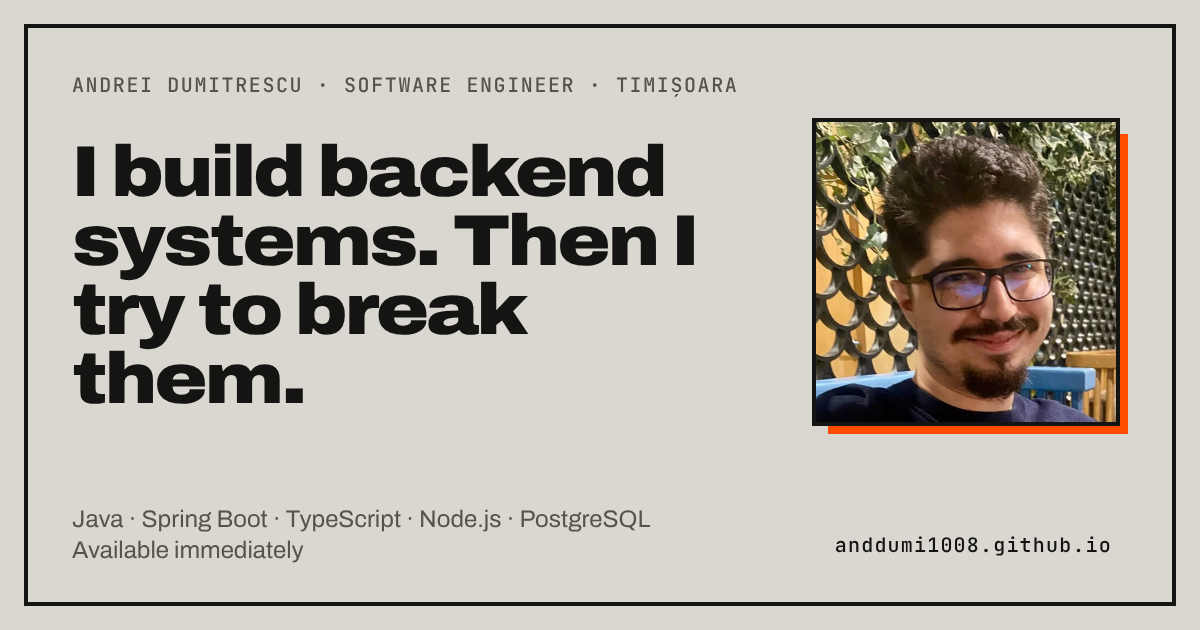
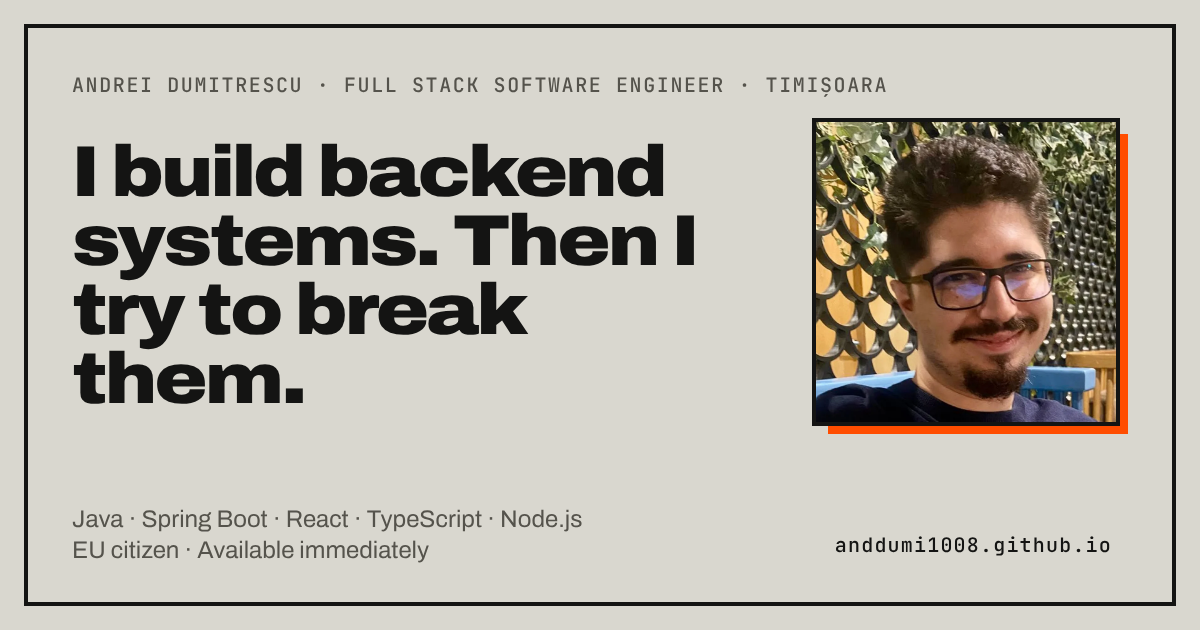
Update CV to v2 and align positioning: full stack, Java-first
- Replace the CV PDF with the two-page v2
- Title, meta, hero and status strip now say full stack software
  engineer, EU citizen, remote (EU) or Timișoara
- Stack section regrouped to match the CV: backend & APIs, databases,
  cloud & DevOps with EC2/S3/Lambda, AI & integrations, engineering
  practices; Scala, Python, Next.js, FastAPI and Grafana removed
- LinkedIn link now points to the URL used in the CV
- Open Graph image regenerated with the new subtitle

Claude-Session: https://claude.ai/code/session_01WgBC9DtN8okjuN4ZBTMQph

Changed region(s): [[0.0617, 0.8143, 0.555, 0.9048], [0.2775, 0.1206, 0.74, 0.1508]]

diff --git a/index.html b/index.html
@@ -3,8 +3,8 @@
 <head>
   <meta charset="UTF-8">
   <meta name="viewport" content="width=device-width, initial-scale=1.0">
-  <title>Andrei Dumitrescu · Software Engineer</title>
-  <meta name="description" content="Andrei Dumitrescu, software engineer in Timișoara, Romania. Java, Spring Boot, TypeScript and Node.js backends in production since 2022. Technical lead on an AI product with 2,800+ users. Available immediately.">
+  <title>Andrei Dumitrescu · Full Stack Software Engineer</title>
+  <meta name="description" content="Andrei Dumitrescu, full stack software engineer in Timișoara, Romania. Java-first: Spring Boot, React, TypeScript and Node.js in production since 2022. Technical lead on an AI product with 2,800+ users. EU citizen, available immediately.">
   <meta name="author" content="Andrei Dumitrescu">
   <meta name="color-scheme" content="light">
   <meta name="theme-color" content="#d9d7cf">
@@ -12,15 +12,15 @@
   <link rel="icon" href="favicon.svg" type="image/svg+xml">
 
   <meta property="og:type" content="website">
-  <meta property="og:title" content="Andrei Dumitrescu · Software Engineer">
-  <meta property="og:description" content="I build backend systems. Then I try to break them. Java, TypeScript, PostgreSQL. Technical lead on an AI product with 2,800+ users. Available immediately.">
+  <meta property="og:title" content="Andrei Dumitrescu · Full Stack Software Engineer">
+  <meta property="og:description" content="I build backend systems. Then I try to break them. Java, Spring Boot, React, TypeScript, Node.js. Technical lead on an AI product with 2,800+ users. Available immediately.">
   <meta property="og:url" content="https://anddumi1008.github.io/">
   <meta property="og:image" content="https://anddumi1008.github.io/assets/og.png">
   <meta property="og:image:width" content="1200">
   <meta property="og:image:height" content="630">
   <meta name="twitter:card" content="summary_large_image">
-  <meta name="twitter:title" content="Andrei Dumitrescu · Software Engineer">
-  <meta name="twitter:description" content="I build backend systems. Then I try to break them. Java, TypeScript, PostgreSQL. Available immediately.">
+  <meta name="twitter:title" content="Andrei Dumitrescu · Full Stack Software Engineer">
+  <meta name="twitter:description" content="I build backend systems. Then I try to break them. Java, Spring Boot, React, TypeScript, Node.js. Available immediately.">
   <meta name="twitter:image" content="https://anddumi1008.github.io/assets/og.png">
 
   <link rel="preconnect" href="https://fonts.googleapis.com">
@@ -34,7 +34,7 @@
     "@type": "Person",
     "name": "Andrei Dumitrescu",
     "alternateName": "Andrei-Sebastian Dumitrescu",
-    "jobTitle": "Software Engineer",
+    "jobTitle": "Full Stack Software Engineer",
     "url": "https://anddumi1008.github.io/",
     "email": "mailto:andrei.dumitrescu100801@gmail.com",
     "image": "https://anddumi1008.github.io/assets/andrei-960.webp",
@@ -42,9 +42,9 @@
     "alumniOf": { "@type": "CollegeOrUniversity", "name": "West University of Timișoara" },
     "sameAs": [
       "https://github.com/AndDumi1008",
-      "https://www.linkedin.com/in/andrei-dumitrescu-b75615207"
+      "https://www.linkedin.com/in/andrei-d-b75615207"
     ],
-    "knowsAbout": ["Java", "Spring Boot", "TypeScript", "Node.js", "PostgreSQL", "Kubernetes", "AWS", "Application security"]
+    "knowsAbout": ["Java", "Spring Boot", "React", "TypeScript", "Node.js", "PostgreSQL", "Kubernetes", "AWS", "Application security"]
   }
   </script>
 </head>
@@ -67,7 +67,7 @@
 </header>
 
 <aside class="rail mono" aria-label="Social links">
-  <a href="https://www.linkedin.com/in/andrei-dumitrescu-b75615207" rel="me noopener" target="_blank">LinkedIn <span aria-hidden="true">↗</span></a>
+  <a href="https://www.linkedin.com/in/andrei-d-b75615207" rel="me noopener" target="_blank">LinkedIn <span aria-hidden="true">↗</span></a>
   <a href="https://github.com/AndDumi1008" rel="me noopener" target="_blank">GitHub <span aria-hidden="true">↗</span></a>
   <a href="mailto:andrei.dumitrescu100801@gmail.com">Email <span aria-hidden="true">→</span></a>
   <a href="assets/Andrei_Dumitrescu_CV.pdf" download="Andrei_Dumitrescu_CV.pdf">CV <span aria-hidden="true">↓</span></a>
@@ -76,9 +76,9 @@
 <main id="main">
   <section class="hero slide" id="top" data-title="Intro" aria-labelledby="hero-title">
     <div class="hero-text">
-      <p class="eyebrow mono">Software engineer · Timișoara, Romania</p>
+      <p class="eyebrow mono">Full stack software engineer · Java-first · Timișoara, Romania</p>
       <h1 id="hero-title">I build backend systems. Then I try to <button class="break" type="button" id="break-btn" title="Go on, try">break them.</button></h1>
-      <p class="lede">Java and TypeScript in production since 2022. Most recently technical lead on an AI product with 2,800+ users: backend, payments, release pipeline, and the on-call for all of it.</p>
+      <p class="lede">Four years in production: three of enterprise Java and Spring Boot, then a year as technical lead on an AI product with 2,800+ users, built full stack in TypeScript, React and PostgreSQL. Backend, payments, release pipeline, and the on-call for all of it.</p>
       <div class="actions">
         <a class="btn" href="#work">See the work</a>
         <a class="btn btn-alt" href="assets/Andrei_Dumitrescu_CV.pdf" download="Andrei_Dumitrescu_CV.pdf">Download CV <span class="mono">· PDF</span></a>
@@ -98,8 +98,8 @@
   <div class="slide" id="s-work" data-title="Work">
   <dl class="spec">
     <div><dt class="mono">Status</dt><dd>Available immediately, full-time or contract</dd></div>
-    <div><dt class="mono">Location</dt><dd>Timișoara · remote · EU work authorization</dd></div>
-    <div><dt class="mono">Stack</dt><dd>Java · Spring Boot · TypeScript · Node.js · PostgreSQL</dd></div>
+    <div><dt class="mono">Location</dt><dd>Timișoara · remote (EU) · EU citizen</dd></div>
+    <div><dt class="mono">Stack</dt><dd>Java · Spring Boot · React · TypeScript · Node.js · PostgreSQL</dd></div>
     <div><dt class="mono">Last role</dt><dd>Technical Lead, ZettaSource</dd></div>
   </dl>
 
@@ -225,14 +225,14 @@
       <button type="button" id="filter-clear">Clear ×</button>
     </div>
     <div class="stack-grid" id="stack-grid">
-      <div><h3 class="mono">Languages</h3><ul class="tags mono"><li><button type="button">Java</button></li><li><button type="button">TypeScript</button></li><li><button type="button">JavaScript</button></li><li><button type="button">SQL</button></li><li><button type="button">Scala</button></li><li><button type="button">Rust</button></li><li><button type="button">Python</button></li></ul></div>
-      <div><h3 class="mono">Backend</h3><ul class="tags mono"><li><button type="button">Spring Boot</button></li><li><button type="button">Node.js</button></li><li><button type="button">Deno</button></li><li><button type="button">Hibernate / JPA</button></li><li><button type="button">Kafka</button></li><li><button type="button">WebSockets</button></li><li><button type="button">REST / SOAP</button></li><li><button type="button">BPMN 2.0</button></li><li><button type="button">FastAPI</button></li></ul></div>
-      <div><h3 class="mono">Data</h3><ul class="tags mono"><li><button type="button">PostgreSQL</button></li><li><button type="button">Supabase</button></li><li><button type="button">MSSQL</button></li><li><button type="button">Oracle</button></li><li><button type="button">MongoDB</button></li></ul></div>
-      <div><h3 class="mono">Frontend &amp; mobile</h3><ul class="tags mono"><li><button type="button">React</button></li><li><button type="button">Vite</button></li><li><button type="button">Next.js</button></li><li><button type="button">Tailwind</button></li><li><button type="button">Capacitor</button></li></ul></div>
-      <div><h3 class="mono">Infrastructure</h3><ul class="tags mono"><li><button type="button">Docker</button></li><li><button type="button">Kubernetes</button></li><li><button type="button">Helm</button></li><li><button type="button">AWS</button></li><li><button type="button">GitHub Actions</button></li><li><button type="button">Jenkins</button></li><li><button type="button">SonarQube</button></li><li><button type="button">Nexus</button></li><li><button type="button">Azure DevOps</button></li><li><button type="button">Grafana</button></li><li><button type="button">Linux</button></li></ul></div>
+      <div><h3 class="mono">Languages</h3><ul class="tags mono"><li><button type="button">Java</button></li><li><button type="button">TypeScript</button></li><li><button type="button">JavaScript</button></li><li><button type="button">SQL</button></li><li><button type="button">Rust</button></li></ul></div>
+      <div><h3 class="mono">Backend &amp; APIs</h3><ul class="tags mono"><li><button type="button">Spring Boot</button></li><li><button type="button">Node.js</button></li><li><button type="button">Deno</button></li><li><button type="button">REST / SOAP</button></li><li><button type="button">Hibernate / JPA</button></li><li><button type="button">Kafka</button></li><li><button type="button">WebSockets</button></li><li><button type="button">Job queues</button></li><li><button type="button">BPMN 2.0</button></li></ul></div>
+      <div><h3 class="mono">Databases</h3><ul class="tags mono"><li><button type="button">PostgreSQL</button></li><li><button type="button">Supabase</button></li><li><button type="button">MSSQL</button></li><li><button type="button">Oracle</button></li><li><button type="button">MongoDB</button></li></ul></div>
+      <div><h3 class="mono">Frontend &amp; mobile</h3><ul class="tags mono"><li><button type="button">React</button></li><li><button type="button">Vite</button></li><li><button type="button">Tailwind</button></li><li><button type="button">Capacitor</button></li></ul></div>
+      <div><h3 class="mono">Cloud &amp; DevOps</h3><ul class="tags mono"><li><button type="button">Docker</button></li><li><button type="button">Kubernetes</button></li><li><button type="button">Helm</button></li><li><button type="button">AWS</button></li><li><button type="button">EC2 / S3 / Lambda</button></li><li><button type="button">GitHub Actions</button></li><li><button type="button">Jenkins</button></li><li><button type="button">SonarQube</button></li><li><button type="button">Nexus</button></li><li><button type="button">Azure DevOps</button></li><li><button type="button">Linux</button></li></ul></div>
       <div><h3 class="mono">Testing</h3><ul class="tags mono"><li><button type="button">JUnit</button></li><li><button type="button">Mockito</button></li><li><button type="button">Rest Assured</button></li><li><button type="button">Vitest</button></li><li><button type="button">Maestro</button></li><li><button type="button">Selenium</button></li><li><button type="button">Cucumber</button></li></ul></div>
-      <div><h3 class="mono">Product &amp; AI</h3><ul class="tags mono"><li><button type="button">OpenAI</button></li><li><button type="button">Whisper</button></li><li><button type="button">ElevenLabs</button></li><li><button type="button">RevenueCat</button></li><li><button type="button">PostHog</button></li><li><button type="button">OneSignal</button></li><li><button type="button">Claude Code</button></li></ul></div>
-      <div><h3 class="mono">Ways of working</h3><ul class="tags mono"><li><button type="button">Scrum / Agile</button></li><li><button type="button">Code review</button></li><li><button type="button">Tech leadership</button></li><li><button type="button">Release engineering</button></li></ul></div>
+      <div><h3 class="mono">AI &amp; integrations</h3><ul class="tags mono"><li><button type="button">OpenAI</button></li><li><button type="button">Whisper</button></li><li><button type="button">ElevenLabs</button></li><li><button type="button">RevenueCat</button></li><li><button type="button">PostHog</button></li><li><button type="button">OneSignal</button></li><li><button type="button">Claude Code</button></li><li><button type="button">Cursor</button></li></ul></div>
+      <div><h3 class="mono">Engineering practices</h3><ul class="tags mono"><li><button type="button">Tech leadership</button></li><li><button type="button">Architecture decisions</button></li><li><button type="button">Code review</button></li><li><button type="button">Unit &amp; integration testing</button></li><li><button type="button">CI/CD</button></li><li><button type="button">Scrum / Agile</button></li><li><button type="button">Root cause analysis</button></li><li><button type="button">Production support</button></li></ul></div>
     </div>
   </section>
 
@@ -247,7 +247,7 @@
       <div class="contact-direct">
         <p class="mono label">Elsewhere</p>
         <ul class="links mono">
-          <li><a href="https://www.linkedin.com/in/andrei-dumitrescu-b75615207" rel="me noopener" target="_blank">LinkedIn ↗</a></li>
+          <li><a href="https://www.linkedin.com/in/andrei-d-b75615207" rel="me noopener" target="_blank">LinkedIn ↗</a></li>
           <li><a href="https://github.com/AndDumi1008" rel="me noopener" target="_blank">GitHub ↗</a></li>
           <li><a href="assets/Andrei_Dumitrescu_CV.pdf" download="Andrei_Dumitrescu_CV.pdf">CV · PDF ↓</a></li>
         </ul>
